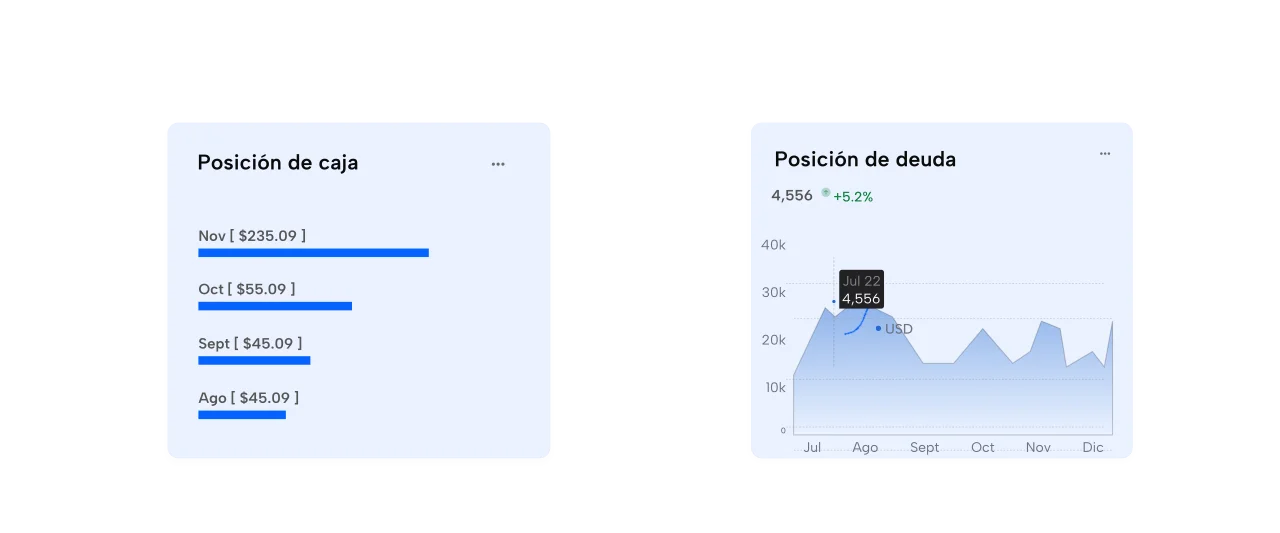
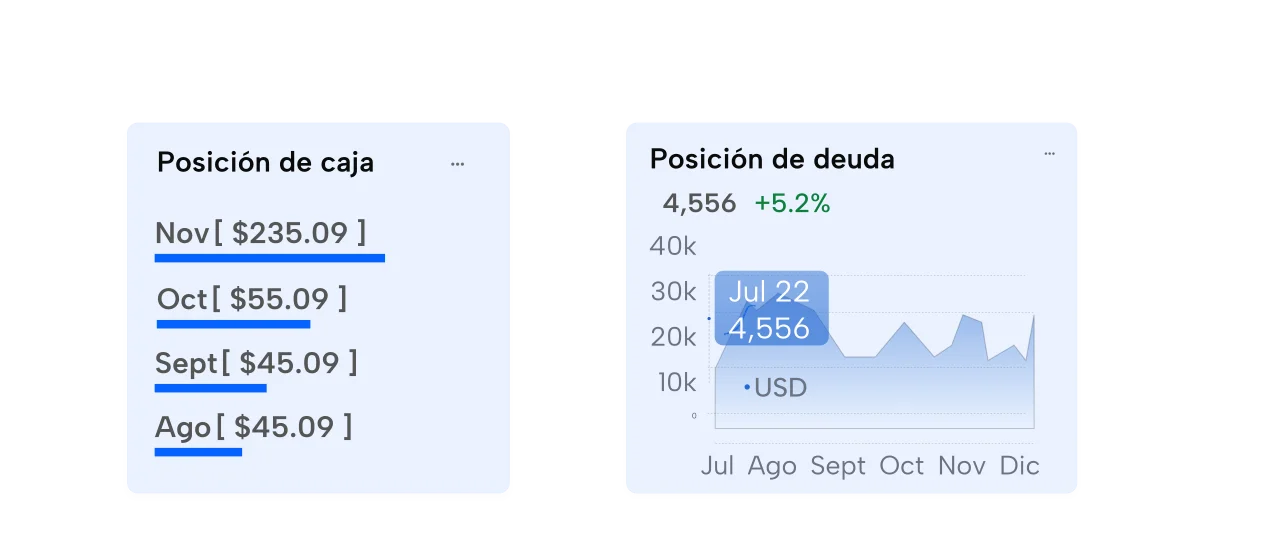
Fix: styles cash flow is king

diff --git a/src/styles/mixins.scss b/src/styles/mixins.scss
@@ -17,20 +17,20 @@ $Extralarge: 2560px;
 
     //tablet up
     @if $type ==tablet {
-      @media only screen and (min-width: $medium - 1) {
+      @media only screen and (min-width: ($medium - 1)) {
         @content;
       }
     }
 
     //desktop up
     @if $type ==desktop {
-      @media only screen and (min-width: $large - 1) {
+      @media only screen and (min-width: ($large - 1)) {
         @content;
       }
     }
 
     @if $type ==extradesktop {
-      @media only screen and (min-width: $Extralarge - 1) {
+      @media only screen and (min-width: ($Extralarge - 1)) {
         @content;
       }
     }
@@ -44,6 +44,7 @@ $Extralarge: 2560px;
     grid-auto-rows: minmax(200px, auto);
     gap: 1.5rem;
   }
+
 
   /* --- Fila Superior 2 Tarjetas--- */
 
@@ -103,7 +104,18 @@ $Extralarge: 2560px;
     flex-direction: column;
     color: var(--c-black);
   }
+  .mode-responsive{
+    display: block;
+        max-width: 73px;
+  }
 
+  html[data-theme='dark'] .mode-responsive{
+   display: none;
+}
+
+  .mode-dark{
+    display: none;
+  }
   .logo img {
     height: 31px;
     object-fit: contain;
@@ -176,7 +188,7 @@ $Extralarge: 2560px;
   .container {
     width: 100%;
     justify-content: space-between;
-    padding: 1rem;
+    padding: 1rem 2rem;
   }
 
   .btn.secondary {

diff --git a/src/styles/globals.scss b/src/styles/globals.scss
@@ -20,6 +20,10 @@ footer {
   margin: auto;
 }
 
+.responsive-mode-dark{
+  max-width: 120px;
+}
+
 ul,
 ol {
   list-style: none;
@@ -68,7 +72,7 @@ html[data-theme='dark'] p {
 }
 
 img {
-  max-width: 100%;
+  width: 100%;
   height: auto;
 }
 
@@ -132,6 +136,10 @@ html[data-theme='dark'] .mode-dark {
 
 html[data-theme='dark'] .mode-light {
   display: block;
+}
+
+html[data-theme='dark'] .mode-responsive{
+   display: none;
 }
 
 html[data-theme='dark'] body {
